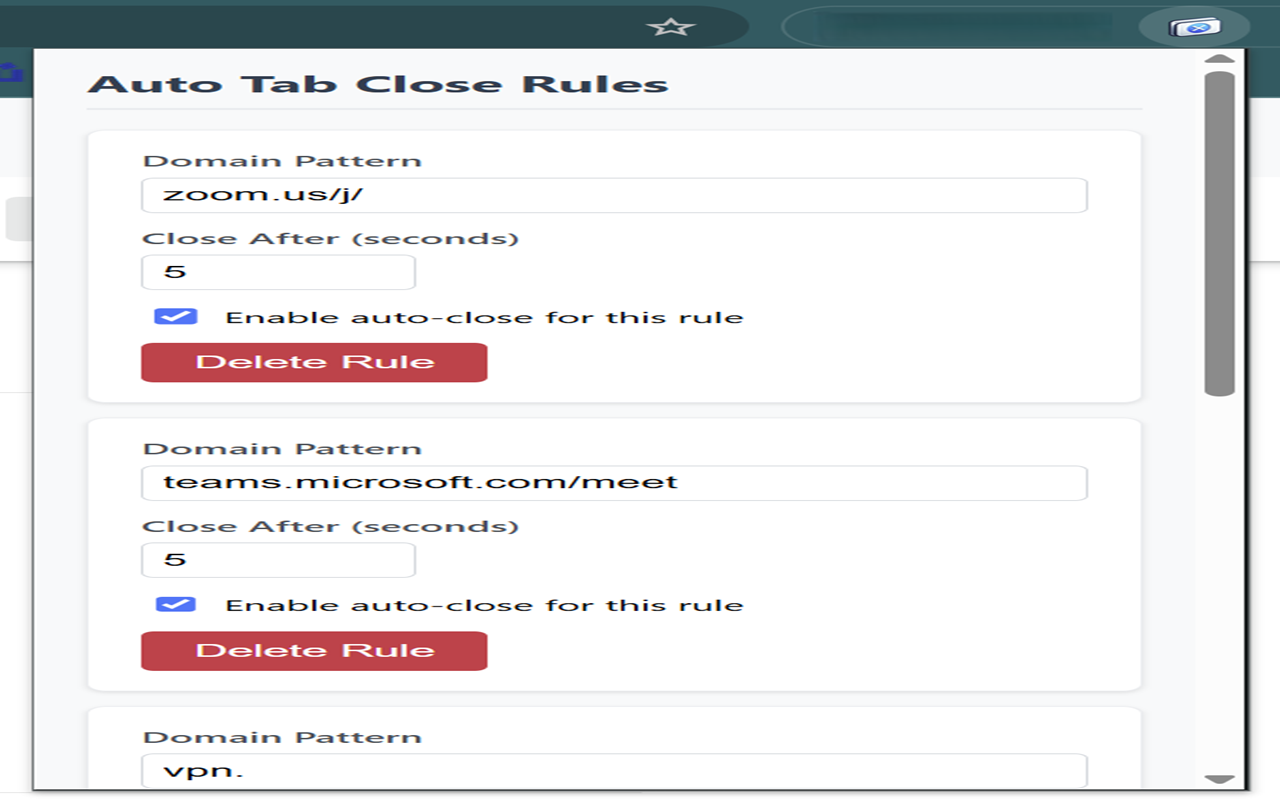
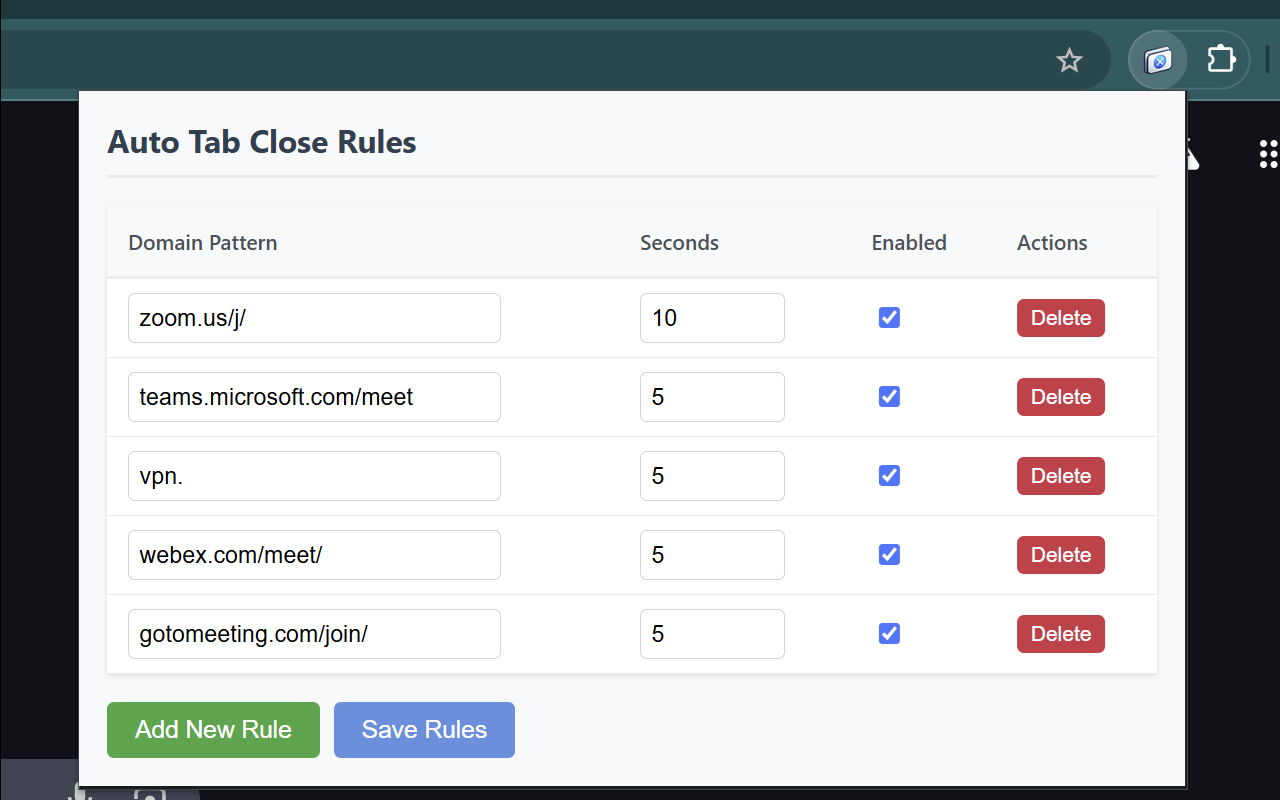
Refactor popup UI to use a table for rule management; update styles and improve layout

diff --git a/src/popup.html b/src/popup.html
@@ -5,7 +5,7 @@
     <title>Auto Tab Close Settings</title>
     <style>
         body {
-            width: 320px;
+            width: 600px;
             padding: 16px;
             font-family: -apple-system, BlinkMacSystemFont, 'Segoe UI', Roboto, Oxygen, Ubuntu, sans-serif;
             margin: 0;
@@ -20,46 +20,36 @@
             border-bottom: 2px solid #e9ecef;
         }
 
-        .rule {
+        table {
+            width: 100%;
+            border-collapse: collapse;
             background: white;
-            padding: 16px;
-            border-radius: 6px;
-            margin-bottom: 12px;
             box-shadow: 0 1px 3px rgba(0, 0, 0, 0.1);
-            border: 1px solid #e9ecef;
         }
 
-        .form-group {
-            margin-bottom: 12px;
+        thead {
+            background: #f8f9fa;
         }
 
-        .form-group label {
-            display: block;
-            margin-bottom: 6px;
+        th {
+            text-align: left;
+            padding: 12px;
+            border-bottom: 2px solid #e9ecef;
             color: #495057;
             font-weight: 500;
         }
 
-        .form-group .helper-text {
-            display: block;
-            font-size: 12px;
-            color: #6c757d;
-            margin-top: 4px;
+        td {
+            padding: 8px 12px;
+            border-bottom: 1px solid #e9ecef;
+            vertical-align: middle;
         }
 
-        .checkbox-group {
-            display: flex;
-            align-items: center;
-            margin-top: 8px;
-        }
-
-        .checkbox-group input[type="checkbox"] {
-            margin-right: 8px;
-        }
-
-        .checkbox-group label {
-            margin-bottom: 0;
-            font-weight: normal;
+        input[type="text"] {
+            width: 200px;
+            padding: 6px;
+            border: 1px solid #ced4da;
+            border-radius: 4px;
         }
 
         input[type="number"] {
@@ -67,24 +57,22 @@
             padding: 6px;
             border: 1px solid #ced4da;
             border-radius: 4px;
-            margin-right: 8px;
         }
 
-        input[type="text"] {
-            width: 100%;
-            padding: 6px;
-            border: 1px solid #ced4da;
-            border-radius: 4px;
-            box-sizing: border-box;
+        input.error {
+            border-color: #dc3545;
         }
 
-        .delete-btn {
-            background: #dc3545;
-            margin-top: 12px;
+        .error-message {
+            color: #dc3545;
+            font-size: 12px;
+            display: block;
         }
 
-        .delete-btn:hover {
-            background: #c82333;
+        .actions {
+            margin-top: 16px;
+            display: flex;
+            gap: 8px;
         }
 
         button {
@@ -98,40 +86,22 @@
             transition: background 0.2s;
         }
 
-        button:hover {
-            background: #357abd;
-        }
-
-        #rules {
-            margin-bottom: 16px;
-        }
-
         #addRule {
             background: #28a745;
-            margin-right: 8px;
         }
 
         #addRule:hover {
             background: #218838;
         }
 
-        input.error {
-            border-color: #dc3545;
-        }
-
-        .error-message {
-            color: #dc3545;
+        .delete-btn {
+            background: #dc3545;
+            padding: 4px 8px;
             font-size: 12px;
-            margin-top: 4px;
         }
 
-        .validation-error {
-            background: #fff3f3;
-            color: #dc3545;
-            padding: 8px;
-            border-radius: 4px;
-            margin-bottom: 12px;
-            border: 1px solid #ffcdd2;
+        .delete-btn:hover {
+            background: #c82333;
         }
     </style>
 </head>
@@ -139,9 +109,23 @@
 <body>
     <h2>Auto Tab Close Rules</h2>
     <div id="rules">
+        <table>
+            <thead>
+                <tr>
+                    <th>Domain Pattern</th>
+                    <th>Seconds</th>
+                    <th>Enabled</th>
+                    <th>Actions</th>
+                </tr>
+            </thead>
+            <tbody id="rulesBody">
+            </tbody>
+        </table>
     </div>
-    <button id="addRule">Add New Rule</button>
-    <button id="saveRules">Save Rules</button>
+    <div class="actions">
+        <button id="addRule">Add New Rule</button>
+        <button id="saveRules">Save Rules</button>
+    </div>
     <script src="popup.js"></script>
 </body>
 

diff --git a/src/popup.js b/src/popup.js
@@ -45,27 +45,26 @@ function validateRule(pattern, seconds) {
  * Renders the list of rules in the popup
  */
 function renderRules() {
-    const container = document.getElementById('rules');
+    const container = document.getElementById('rulesBody');
     container.innerHTML = rules.map((rule, index) => `
-        <div class="rule">
-            <div class="form-group">
-                <label>Domain Pattern</label>
+        <tr>
+            <td>
                 <input type="text" value="${rule.pattern}" 
                     placeholder="e.g., *.example.com" 
                     data-index="${index}" 
                     class="pattern${rule.error ? ' error' : ''}">
-                ${rule.error ? `<div class="error-message">${rule.error}</div>` : ''}
-            </div>
-            <div class="form-group">
-                <label>Close After (seconds)</label>
+                ${rule.error ? `<span class="error-message">${rule.error}</span>` : ''}
+            </td>
+            <td>
                 <input type="number" value="${rule.seconds}" min="1" data-index="${index}" class="seconds">
-            </div>
-            <div class="checkbox-group">
+            </td>
+            <td>
                 <input type="checkbox" id="enabled-${index}" ${rule.enabled ? 'checked' : ''} data-index="${index}" class="enabled">
-                <label for="enabled-${index}">Enable auto-close for this rule</label>
-            </div>
-            <button class="delete-btn" data-index="${index}">Delete Rule</button>
-        </div>
+            </td>
+            <td>
+                <button class="delete-btn" data-index="${index}">Delete</button>
+            </td>
+        </tr>
     `).join('');
 }
 
@@ -73,7 +72,7 @@ function renderRules() {
  * Adds a new empty rule to the list
  */
 function addNewRule() {
-    rules.push({ pattern: "", seconds: 300, enabled: true });
+    rules.push({ pattern: "", seconds: 10, enabled: true });
     renderRules();
 }
 
